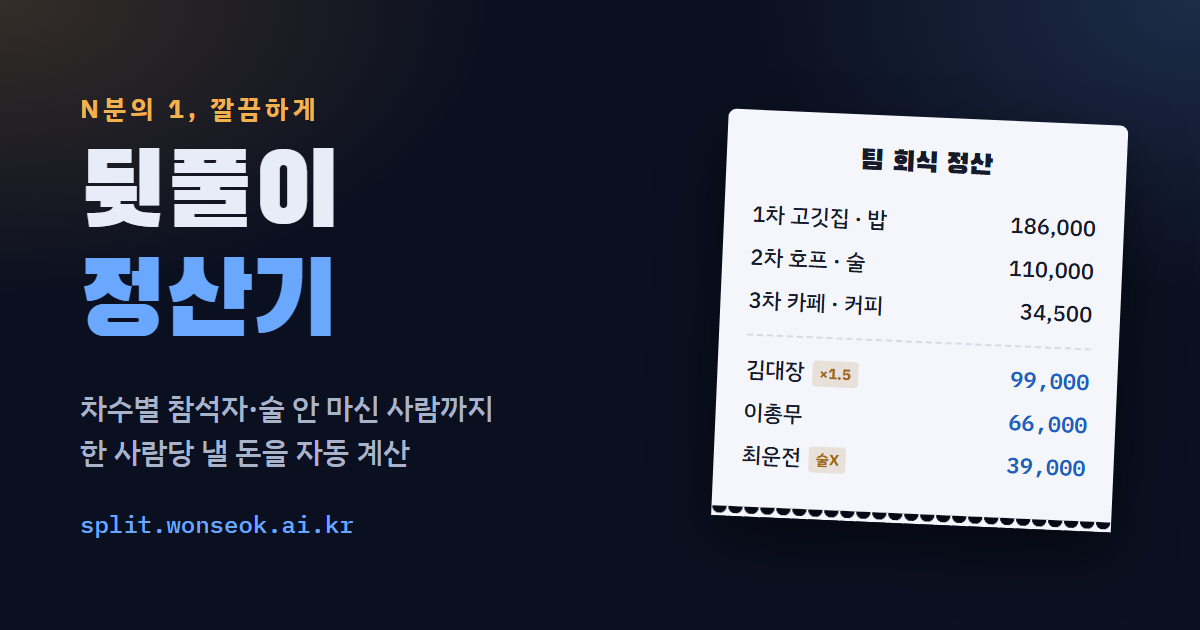
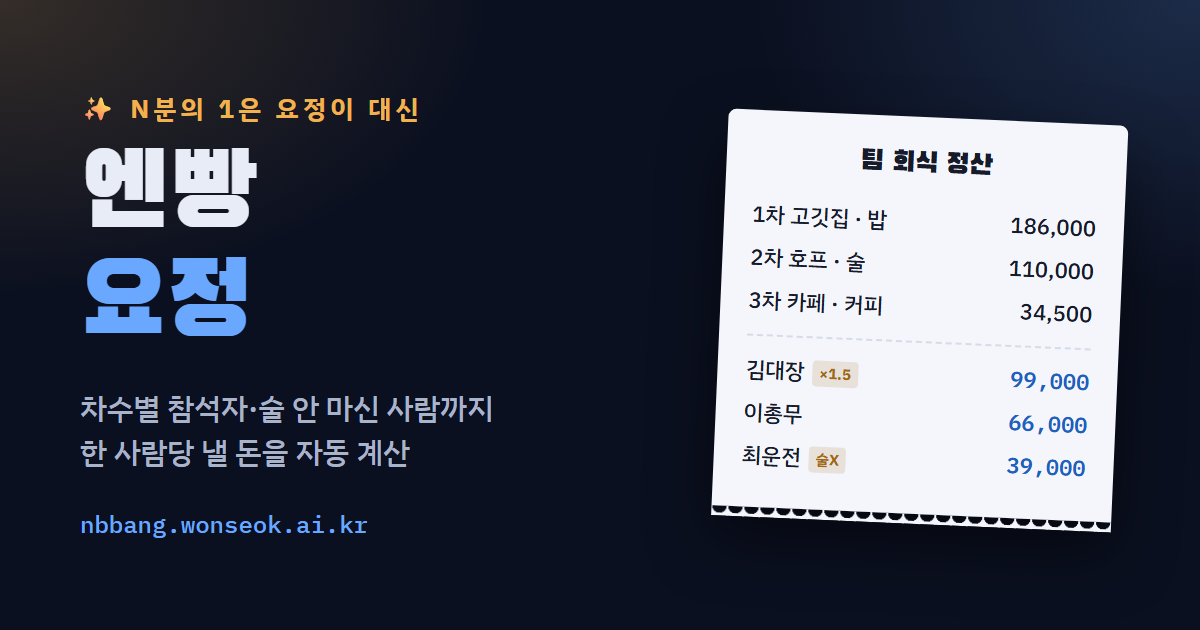
2026.11.03 12:15

Changed region(s): [[0.0617, 0.1508, 0.37, 0.3619], [0.0617, 0.3921, 0.2775, 0.5429], [0.0617, 0.8143, 0.3083, 0.8746]]

diff --git a/index.html b/index.html
@@ -7,25 +7,28 @@
       name="viewport"
       content="width=device-width,initial-scale=1,viewport-fit=cover"
     />
-    <title>뒷풀이 정산기 - 술값·회식비 N빵 계산기</title>
+    <title>엔빵요정 - 술값·회식비 N빵 정산 계산기</title>
     <meta
       name="description"
-      content="1차 밥, 2차 술, 3차 카페까지 차수별 참석자와 술 안 마신 사람을 체크하면 한 사람당 낼 돈을 자동으로 계산하는 무료 정산기. 회식·동호회 뒷풀이 N분의 1 정산을 단톡방 링크로 공유하세요."
+      content="엔빵요정이 대신 계산해 드려요. 1차 밥, 2차 술, 3차 카페까지 차수별 참석자와 술 안 마신 사람을 체크하면 한 사람당 낼 돈을 자동으로 계산하는 무료 정산기. 회식·동호회 뒷풀이 N분의 1 정산을 단톡방 링크로 공유하세요."
     />
-    <link rel="canonical" href="https://split.wonseok.ai.kr/" />
+    <link rel="canonical" href="https://nbbang.wonseok.ai.kr/" />
+    <link rel="manifest" href="/manifest.webmanifest" />
+    <link rel="icon" type="image/png" sizes="192x192" href="/icon-192.png" />
+    <link rel="apple-touch-icon" href="/icon-192.png" />
     <meta name="robots" content="index,follow" />
 
     <!-- 카카오톡·SNS 링크 미리보기 -->
     <meta property="og:type" content="website" />
-    <meta property="og:site_name" content="뒷풀이 정산기" />
+    <meta property="og:site_name" content="엔빵요정" />
     <meta property="og:locale" content="ko_KR" />
-    <meta property="og:url" content="https://split.wonseok.ai.kr/" />
-    <meta property="og:title" content="뒷풀이 정산기 - 술값·회식비 N빵 계산기" />
+    <meta property="og:url" content="https://nbbang.wonseok.ai.kr/" />
+    <meta property="og:title" content="엔빵요정 - 술값·회식비 N빵 정산 계산기" />
     <meta
       property="og:description"
       content="차수별 참석자, 술 안 마신 사람, 선후배 차등까지 자동 계산. 결과는 링크 하나로 단톡방에 공유."
     />
-    <meta property="og:image" content="https://split.wonseok.ai.kr/og.png" />
+    <meta property="og:image" content="https://nbbang.wonseok.ai.kr/og.png" />
     <meta property="og:image:width" content="1200" />
     <meta property="og:image:height" content="630" />
     <meta name="twitter:card" content="summary_large_image" />
@@ -34,8 +37,9 @@
       {
         "@context": "https://schema.org",
         "@type": "WebApplication",
-        "name": "뒷풀이 정산기",
-        "url": "https://split.wonseok.ai.kr/",
+        "name": "엔빵요정",
+        "alternateName": "뒷풀이 정산기",
+        "url": "https://nbbang.wonseok.ai.kr/",
         "description": "차수별 참석자와 술 안 마신 사람을 반영해 회식·뒷풀이 비용을 N분의 1로 나누는 정산 계산기",
         "applicationCategory": "FinanceApplication",
         "operatingSystem": "All",
@@ -558,8 +562,8 @@
   <body>
     <div class="wrap">
       <header>
-        <p class="kicker">N분의 1, 깔끔하게</p>
-        <h1>뒷풀이 <span>정산기</span></h1>
+        <p class="kicker">✨ N분의 1은 요정이 대신</p>
+        <h1>엔빵<span>요정</span></h1>
         <p>
           회식·뒷풀이 술값 N빵, 이제 계산기 두드리지 마세요. 차수마다
           밥·술·커피 중 무엇이었는지와 누가 있었는지 체크하면 알아서 나눠
@@ -673,6 +677,10 @@
           </details>
         </div>
       </section>
+
+      <footer class="note" style="text-align: center">
+        엔빵요정 · <a href="/privacy.html" style="color: inherit">개인정보처리방침</a>
+      </footer>
     </div>
 
     <script>
@@ -1259,6 +1267,10 @@
           } catch (e) {}
         }
       })();
+
+      if ("serviceWorker" in navigator) {
+        navigator.serviceWorker.register("/sw.js").catch(() => {});
+      }
     </script>
   </body>
 </html>

diff --git a/privacy.html b/privacy.html
@@ -1,0 +1,49 @@
+<!doctype html>
+<html lang="ko">
+<head>
+<meta charset="utf-8">
+<meta name="viewport" content="width=device-width,initial-scale=1">
+<meta name="theme-color" content="#0b1020">
+<title>개인정보처리방침 - 엔빵요정</title>
+<link rel="canonical" href="https://nbbang.wonseok.ai.kr/privacy.html">
+<style>
+:root{color-scheme:dark}
+body{margin:0;background:#0b1020;color:#e8ecf6;font:15px/1.7 "Apple SD Gothic Neo","Malgun Gothic",system-ui,sans-serif}
+main{max-width:640px;margin:0 auto;padding:32px 16px 56px}
+h1{font-size:24px;margin:0 0 4px}
+h2{font-size:16px;margin:28px 0 6px;color:#6aa8ff}
+p,li{color:#c3cadb}
+.muted{color:#8b95ad;font-size:13px}
+a{color:#6aa8ff}
+</style>
+</head>
+<body>
+<main>
+  <h1>개인정보처리방침</h1>
+  <p class="muted">엔빵요정 (웹사이트 nbbang.wonseok.ai.kr 및 Android 앱) · 시행일 2026년 11월 3일</p>
+
+  <h2>1. 수집하는 개인정보</h2>
+  <p>엔빵요정은 회원가입이 없으며, 이용자의 개인정보를 수집하거나 서버에 저장하지 않습니다.</p>
+
+  <h2>2. 기기에 저장되는 정보</h2>
+  <p>정산 중인 내용(모임 이름, 멤버 이름, 금액 등)은 다음에 이어서 쓸 수 있도록 이용자 기기의 브라우저 저장소에만 보관됩니다. 이 정보는 운영자에게 전송되지 않으며, 앱의 "새 정산 시작" 버튼이나 앱 데이터 삭제로 언제든 지울 수 있습니다.</p>
+
+  <h2>3. 공유 링크</h2>
+  <p>"결과 링크 복사"로 만든 링크에는 정산 내용이 압축되어 링크 주소 자체에 담깁니다. 이 내용은 링크의 # 뒤 부분에 들어가 서버로 전송되지 않으며, 링크를 받은 사람만 볼 수 있습니다. 링크를 누구에게 보낼지는 이용자가 직접 정합니다.</p>
+
+  <h2>4. 제3자 제공 및 외부 서비스</h2>
+  <p>개인정보를 제3자에게 제공하지 않습니다. 화면 글꼴을 불러오기 위해 Google Fonts를 사용하며, 이 과정에서 Google이 일반적인 접속 정보(IP 주소 등)를 처리할 수 있습니다.</p>
+
+  <h2>5. 아동의 개인정보</h2>
+  <p>본 서비스는 개인정보를 수집하지 않으므로 아동의 개인정보도 수집하지 않습니다.</p>
+
+  <h2>6. 문의</h2>
+  <p>개인정보 관련 문의: <a href="mailto:CONTACT_EMAIL">CONTACT_EMAIL</a></p>
+
+  <h2>7. 변경</h2>
+  <p>이 방침이 바뀌면 이 페이지에 시행일과 함께 게시합니다.</p>
+
+  <p style="margin-top:32px"><a href="/">← 엔빵요정으로 돌아가기</a></p>
+</main>
+</body>
+</html>

diff --git a/sw.js b/sw.js
@@ -1,0 +1,36 @@
+// 오프라인에서도 열리도록: 페이지는 네트워크 우선(실패하면 저장본), 나머지는 저장본 우선
+const CACHE = 'nbbang-v1';
+const SHELL = ['/', '/manifest.webmanifest', '/icon-192.png', '/icon-512.png'];
+
+self.addEventListener('install', e => {
+  e.waitUntil(caches.open(CACHE).then(c => c.addAll(SHELL)).then(() => self.skipWaiting()));
+});
+
+self.addEventListener('activate', e => {
+  e.waitUntil(
+    caches.keys()
+      .then(keys => Promise.all(keys.filter(k => k !== CACHE).map(k => caches.delete(k))))
+      .then(() => self.clients.claim())
+  );
+});
+
+self.addEventListener('fetch', e => {
+  const req = e.request;
+  if (req.method !== 'GET') return;
+
+  if (req.mode === 'navigate') {
+    e.respondWith(
+      fetch(req)
+        .then(res => { const copy = res.clone(); caches.open(CACHE).then(c => c.put('/', copy)); return res; })
+        .catch(() => caches.match('/'))
+    );
+    return;
+  }
+
+  e.respondWith(
+    caches.match(req).then(hit => hit || fetch(req).then(res => {
+      if (res.ok || res.type === 'opaque') { const copy = res.clone(); caches.open(CACHE).then(c => c.put(req, copy)); }
+      return res;
+    }))
+  );
+});
